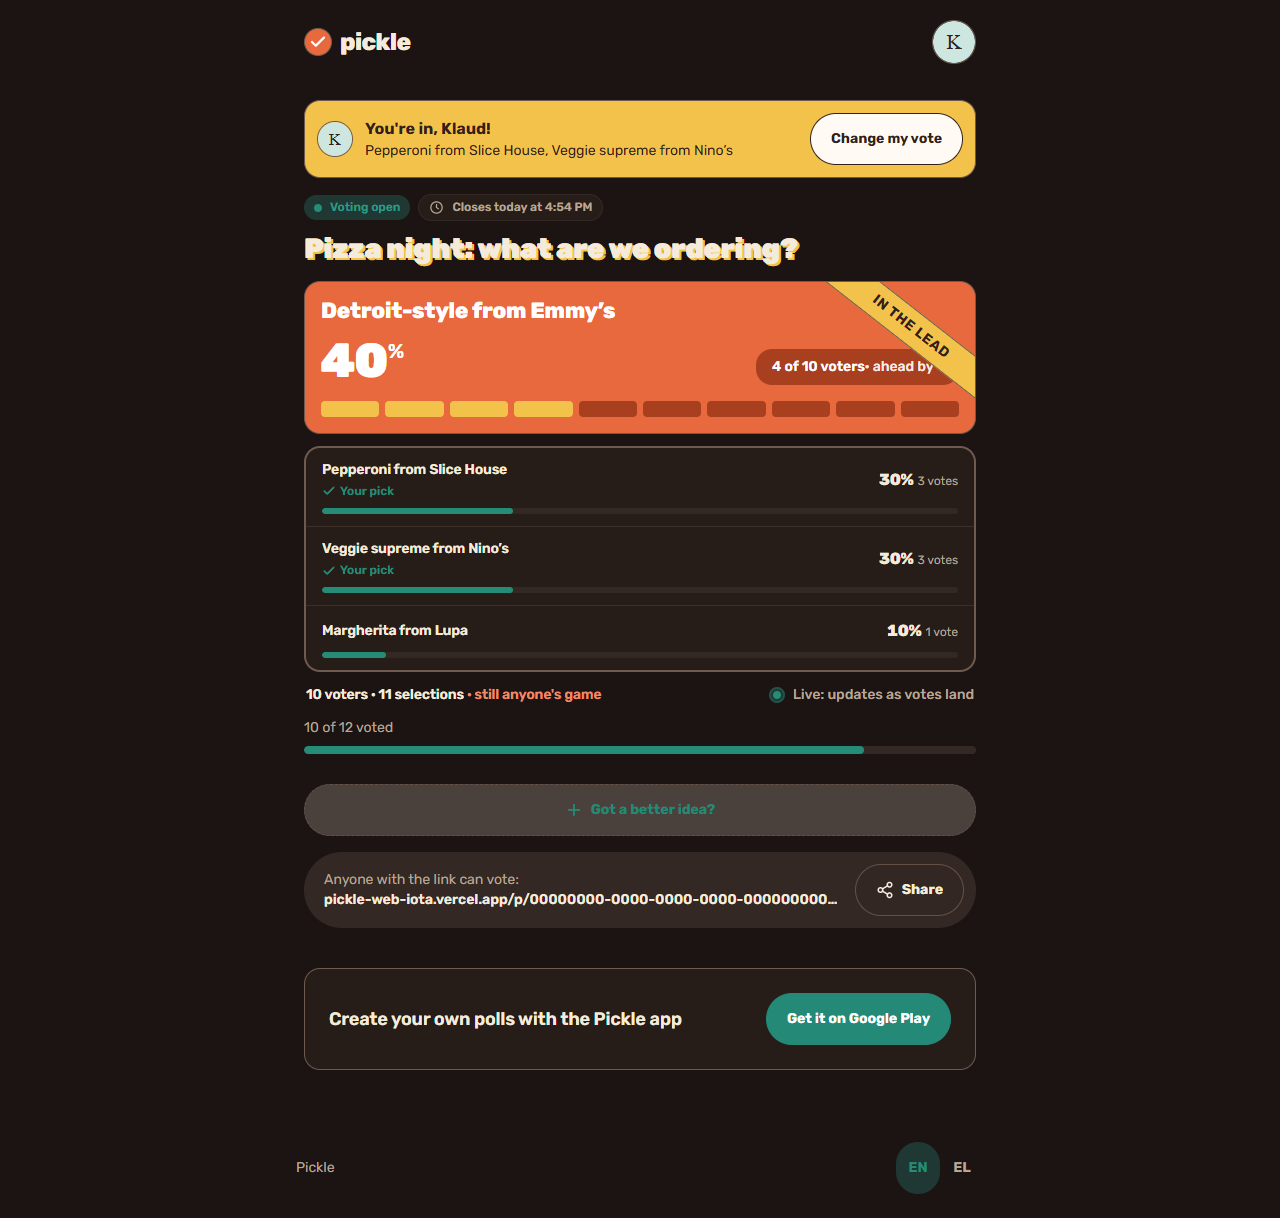
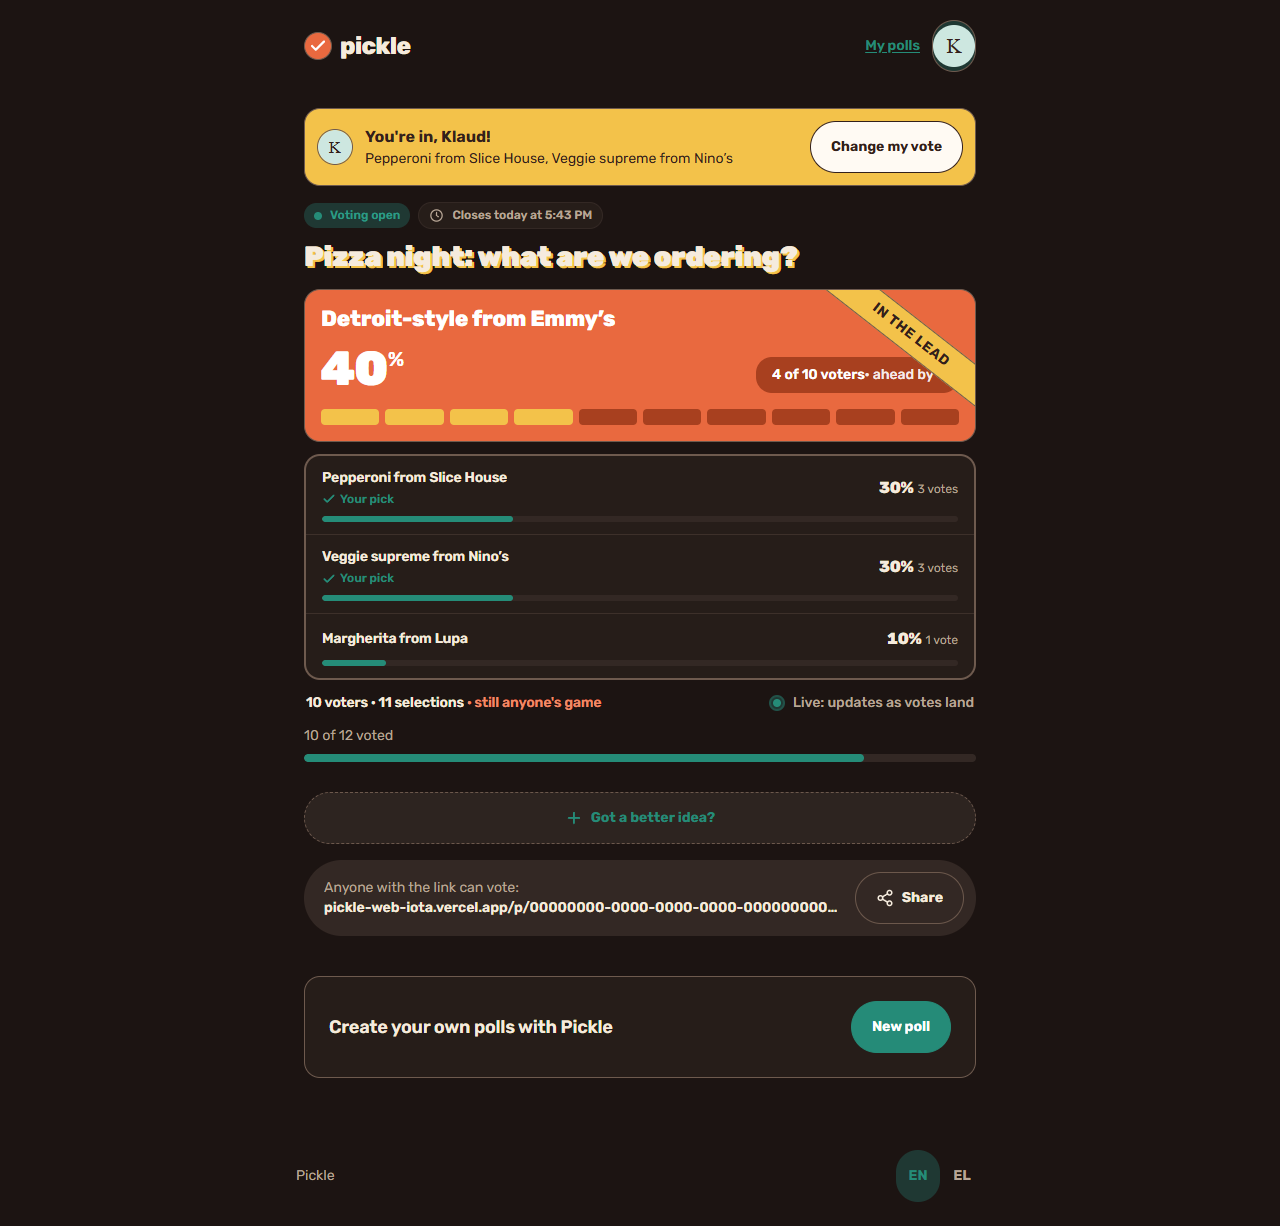
Refactor code structure for improved readability and maintainability

diff --git a/src/lib/i18n/translations.ts b/src/lib/i18n/translations.ts
@@ -39,7 +39,7 @@ const en = {
     "Dinner, movie night, or the next trip? Make a poll in Pickle, drop the link in your chat, and let everyone have a say.",
   ctaAndroid: "Get Pickle for Android",
   ctaHow: "See how it works",
-  heroNote: "Create polls in the Android app. Friends vote in their browser.",
+  heroNote: "Create polls on the web or Android. Friends vote in their browser.",
 
   // Landing — demo poll
   demoQuestion: "The important question: which pizza?",
@@ -51,7 +51,7 @@ const en = {
   // Landing — how it works
   howTitle: "Ask. Share. Decide.",
   step1Title: "Start with a question",
-  step1Body: "Create a poll in the Pickle Android app. Add your options and choose whether friends can suggest more.",
+  step1Body: "Create a poll on the web or in the Pickle Android app. Add your options and choose whether friends can suggest more.",
   step2Title: "Send it to the chat",
   step2Body: "Share your poll link wherever your group talks. Friends open it and vote. No app download needed.",
   step3Title: "Make the call",
@@ -81,7 +81,7 @@ const en = {
   navCookies: "Cookies",
 
   // Footer banner on poll pages
-  footerText: "Create your own polls with the Pickle app",
+  footerText: "Create your own polls with Pickle",
   footerCta: "Get it on Google Play",
 
   // States
@@ -238,7 +238,7 @@ const el: Messages = {
     "Φαγητό, ταινία ή η επόμενη εκδρομή; Φτιάξε μια ψηφοφορία στο Pickle, στείλε τον σύνδεσμο στο chat και δώσε σε όλους λόγο στην απόφαση.",
   ctaAndroid: "Pickle για Android",
   ctaHow: "Δες πώς λειτουργεί",
-  heroNote: "Φτιάξε ψηφοφορίες στην εφαρμογή Android. Η παρέα ψηφίζει από τον browser.",
+  heroNote: "Φτιάξε ψηφοφορίες στο web ή στο Android. Η παρέα ψηφίζει από τον browser.",
 
   demoQuestion: "Το μεγάλο δίλημμα: ποια πίτσα;",
   demoOption1: "Πεπερόνι",
@@ -248,7 +248,7 @@ const el: Messages = {
 
   howTitle: "Μια ερώτηση. Μια κοινή απόφαση.",
   step1Title: "Ξεκίνα με μια ερώτηση",
-  step1Body: "Φτιάξε μια ψηφοφορία στην εφαρμογή Pickle για Android. Βάλε τις επιλογές σου και διάλεξε αν η παρέα μπορεί να προτείνει κι άλλες.",
+  step1Body: "Φτιάξε μια ψηφοφορία στο web ή στην εφαρμογή Pickle για Android. Βάλε τις επιλογές σου και διάλεξε αν η παρέα μπορεί να προτείνει κι άλλες.",
   step2Title: "Στείλε τη στο chat",
   step2Body: "Μοιράσου τον σύνδεσμο εκεί που μιλάτε. Οι φίλοι σου τον ανοίγουν και ψηφίζουν, χωρίς να κατεβάσουν εφαρμογή.",
   step3Title: "Πάρτε την απόφαση",
@@ -275,7 +275,7 @@ const el: Messages = {
   navPrivacy: "Πολιτική απορρήτου",
   navCookies: "Cookies",
 
-  footerText: "Φτιάξε τις δικές σου ψηφοφορίες με την εφαρμογή Pickle",
+  footerText: "Φτιάξε τις δικές σου ψηφοφορίες με το Pickle",
   footerCta: "Διαθέσιμο στο Google Play",
 
   loading: "Φόρτωση ψηφοφορίας…",

diff --git a/src/components/FooterBanner.tsx b/src/components/FooterBanner.tsx
@@ -1,14 +1,16 @@
 "use client";
-import { PLAY_STORE_URL } from "@/lib/config";
+import Link from "next/link";
+import { useCreatorCopy } from "@/lib/creator/copy";
 import { useI18n } from "@/lib/i18n/LocaleContext";
 import { buttonClass } from "./ui/Button";
 
 export function FooterBanner() {
   const { t } = useI18n();
+  const c = useCreatorCopy();
   return (
     <aside className="flex flex-col items-center gap-4 rounded-card border-2 border-ink bg-paper px-6 py-6 text-center sm:flex-row sm:text-left">
       <p className="flex-1 font-display text-lg font-semibold">{t("footerText")}</p>
-      <a href={PLAY_STORE_URL} className={buttonClass()}>{t("footerCta")}</a>
+      <Link href="/app" className={buttonClass()}>{c("newPoll")}</Link>
     </aside>
   );
 }

diff --git a/docs/creator-parity.md b/docs/creator-parity.md
@@ -1,0 +1,50 @@
+# Web creator experience
+
+Creator features now live under `/app`, using the same Supabase accounts, poll IDs, ballots, templates, and RPCs as Android. Public `/p/<id>` voting remains available without an email account.
+
+## Delivered flows
+
+- `/app`: welcome and read-only demo entry for visitors; first-run guide for a successfully loaded empty account; owned live polls and three recent settled polls for returning creators.
+- `/app/login` and `/app/signup`: email/password login, four signup steps (name, avatar, email, password), explicit avatar selection, confirmation-email handling, anonymous-account upgrade completion, and sign out. Passwords stay in memory. Signing into another account does not transfer guest votes.
+- `/app/new`: blank drafts, all six starters, and personal-template reuse. Questions, options, accessible reordering, voting mode, deadline, suggestion approval, result visibility, vote changes, and expected voters remain editable before creation.
+- Drafts use account/source-specific session storage. Reloads restore option keys, ordering, settings, and request IDs. Retrying an unchanged draft reuses its request ID through `create_poll_v2`; editing generates a new request ID. Creation navigates directly to a share confirmation.
+- `/p/<id>`: matching account owners can approve/reject pending suggestions, confirm End voting, and save/update a personal template. Confirmation shows the current tally. Closing immediately disables local voting, including when the following refresh fails. Refresh does not repeat committed operations.
+- `/app/templates`: personal templates first, then six starters. Reuse selects the latest completed round, retains approved suggestions and option order, identifies runners-up/new choices, and initially excludes a unique prior winner when at least two alternatives remain. Weekly deadlines use the stored IANA timezone, including daylight-saving gaps and overlaps. Schedules seed drafts; they never auto-publish.
+- `/app/closed`, `/app/notifications`, `/app/account`: closed history, inbox/read state, unread count, shared profile identity, owned-poll statistics, share Pickle, and sign out.
+- `/app/demo`: static, read-only sample polls. Demo browsing does not sign in anonymously or load real poll data.
+
+Creator screens use the existing scoped Android theme, system dark mode, Rubik with Greek fallback, and responsive layouts. The marketing header and hero now provide an Open Pickle / New poll entry point.
+
+## Data boundaries
+
+The browser filters owned polls by `creator_id`, private templates by `owner_id`, and activity by `user_id`. State and drafts are isolated by account; late responses cannot replace another account's data. Creator writes verify the current non-anonymous account before calling existing owner-authorized backend operations. Database authorization remains authoritative.
+
+Read-only inspection confirmed the deployed RPC signatures, template/notification columns, and policies before implementation. No schema or authentication settings were changed. Poll creation already records its own activity atomically; the web does not insert a second creation notification. Moderation and closing follow Android's existing client-recorded activity behavior. The inbox does not imply push delivery or automatic cross-user notifications that the current backend does not implement.
+
+Before deployment, allow the deployed `/app/signup` return URL in Supabase Auth's redirect configuration. Confirmation requirements and anonymous identity linking remain controlled by that deployment. Real email delivery and a final Android/web smoke test require a dedicated test account and disposable poll; fixture tests do not claim those checks.
+
+## Validation
+
+- 44 unit/API tests cover the existing voter/blog behavior plus creator account guards, creation payloads and retry IDs, input validation, six starters, template history, option exclusion, weekly schedules, daylight-saving gaps/overlaps, lifecycle RPC arguments, and notification ownership.
+- `npm.cmd run lint` and `npm.cmd run build` validate the complete web project.
+- `scripts/creator-browser.cjs` exercises signup, anonymous upgrade, login/logout, demo isolation, draft restoration/order, creation-response loss and retry, multi-choice settings, moderation, template save/reuse, closing confirmation and refresh recovery, notifications, and profile updates. All remote requests are intercepted. It also captures 320, 390, 768, and 1280px layouts in English/Greek and light/dark mode, plus enlarged text.
+- The existing `scripts/poll-parity-browser.cjs` remains the public-voter regression suite.
+
+Run either browser script against a local production preview with Playwright available on Node's module path:
+
+```powershell
+npm.cmd run build
+npm.cmd start -- --hostname 127.0.0.1 --port 3101
+```
+
+In another terminal:
+
+```powershell
+$env:PICKLE_TEST_ORIGIN = 'http://127.0.0.1:3101'
+node scripts/creator-browser.cjs
+node scripts/poll-parity-browser.cjs
+```
+
+The default browser is installed Edge; set `PICKLE_BROWSER_CHANNEL=chrome` for Chrome. Captures use fixture identities and avatar images. No real accounts, ballots, polls, or notifications are created by these scripts.
+
+Representative captures: [first run](screenshots/creator-first-run.png), [draft](screenshots/creator-film-draft.png), [share confirmation](screenshots/creator-share.png), [template round](screenshots/creator-template-round.png), and [dashboard](screenshots/creator-dashboard.png).

diff --git a/README.md b/README.md
@@ -1,6 +1,6 @@
 # Pickle web
 
-The web app for **Pickle** group polls. Create and manage polls in the Android app, then share `https://pickle-web-iota.vercel.app/p/{pollId}`. Voters can vote, see results and suggest options in their browser without installing anything.
+The web app for **Pickle** group polls. Create and manage polls at `/app` or in the Android app, then share `https://pickle-web-iota.vercel.app/p/{pollId}`. Voters can vote, see results and suggest options in their browser without installing anything.
 
 - Next.js 16 (App Router) + React 19 + TypeScript + Tailwind CSS v4
 - Supabase JS v2, talking directly to the existing project (no custom backend)
@@ -10,7 +10,14 @@ The web app for **Pickle** group polls. Create and manage polls in the Android a
 
 | Path | What it shows |
 | --- | --- |
-| `/` | Landing page with a "Get the Android app" call to action |
+| `/` | Landing page with web creator and Android app entry points |
+| `/app` | Creator welcome, first-run guide, My polls, and recent settled polls |
+| `/app/login`, `/app/signup` | Email/password authentication and four-step signup |
+| `/app/new` | Editable blank, starter, or template draft |
+| `/app/templates`, `/app/closed` | Personal templates, six starters, and closed poll history |
+| `/app/notifications`, `/app/account` | Inbox, profile, statistics, and sign out |
+| `/app/demo` | Read-only sample polls without creating a guest session |
+| `/app/share?poll=<id>` | Created-poll share confirmation |
 | `/p/:pollId` | The poll: vote, results, suggestions, share |
 | `/blog` | Published articles, in English and Greek with English fallback |
 | `/blog/:slug` | A published blog article |
@@ -103,6 +110,12 @@ Public poll pages follow the current Android implementation and its handoff READ
 - Identity uses ten Notionists avatar choices. New identities require an explicit face selection; shuffling clears it. Existing names and avatars are preserved. Forms use bottom sheets on phones and modal dialogs on desktop.
 - A successful write followed by a failed refresh shows a Saved message and Refresh action. Refresh never repeats the write. Account changes clear in-progress selections.
 
-Intentional web differences: link recipients can vote through persisted anonymous sessions, with optional email authentication; Android requires an account. Web keeps realtime updates with polling fallback and Web Share with clipboard fallback. Creator features remain in Android. Reopening, sudden death, result replays, backer lists, and image-card downloads are not implemented by this update.
+Intentional web differences: link recipients can vote through persisted anonymous sessions, with optional email authentication; Android requires an account. Web keeps realtime updates with polling fallback and Web Share with clipboard fallback. Creator features are now also available on the web; see [creator implementation and validation](docs/creator-parity.md). Reopening, sudden death, result replays, backer lists, and image-card downloads are not implemented by this update.
 
 No production data mutations or schema changes are needed for this client update. The target deployment's ballot contract was checked read-only; see [shared database notes](docs/database.md).
+
+## Web creator features
+
+Open `/app` for the creator experience: email signup/login, first-run guidance, owned polls, closed history, editable poll creation, six starters, personal templates, notifications, profile, and sign out. Poll owners also receive moderation, End voting confirmation, and Save as template controls on shared poll pages. Anonymous link voting remains supported.
+
+See [creator parity and validation](docs/creator-parity.md) for the shared data contracts, draft/retry behavior, screenshots, isolated browser harness, and deployment auth-return configuration. Validation passed: 44 unit/API tests, lint, production build, and both creator/public-voter browser suites. No production deployment or data mutation was performed during validation.

diff --git a/docs/voter-parity.md b/docs/voter-parity.md
@@ -42,7 +42,7 @@ The origin must be localhost or 127.0.0.1. Set `PICKLE_BROWSER_CHANNEL=chrome` t
 
 ## Intentional differences and limits
 
-Web voting remains account-free through Supabase anonymous authentication, with optional email login. Realtime/polling and browser share/copy are retained web adaptations. Creating/managing polls, templates, and notifications remain Android features. Closed results show immediately, without replay, reopening, sudden death, backer lists, or downloadable cards.
+Web voting remains account-free through Supabase anonymous authentication, with optional email login. Realtime/polling and browser share/copy are retained web adaptations. Creating/managing polls, templates, and notifications are now also implemented on the web; see [creator parity](creator-parity.md). Closed results show immediately, without replay, reopening, sudden death, backer lists, or downloadable cards.
 
 The production schema, grants, and ballot function were inspected read-only. Fixture checks do not replace a final cross-client smoke test with a dedicated test account and disposable poll. No production deployment, live vote, or database migration was performed.
 

diff --git a/docs/database.md b/docs/database.md
@@ -1,9 +1,9 @@
 # Shared database setup and validation
 
 The web app supports voting at `/p/[pollId]`. Poll creation, moderation, and
-management belong to the Android app. The existing Supabase migrations and SQL
+management are available on the web at `/app` and in Android. The existing Supabase migrations and SQL
 validation scripts are retained because they describe shared database behavior.
-Removing the web creator pages does not change the deployed database.
+Both clients use the same existing database functions; this creator update applies no schema migrations.
 
 ## Migrations
 
